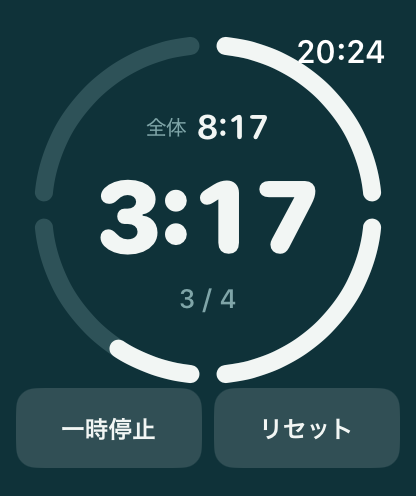
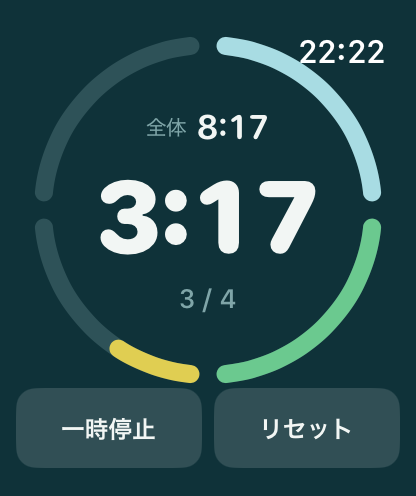
実行画面の円環にも色を入れる
コンプリケーションと同じ色の言語をアプリへ持ち込んだ。
冷たい色から暖かい色へ、時計回りに進む（淡い水 → 若緑 → 金 → 琥珀）。
位置そのものが進み具合を表すので、暖色まで来ていれば終わりが近いと分かる。
最後の区切りは警告と同じ琥珀。

12色を Core に置き、分割数に応じて等間隔に選ぶ。1分割でも12分割でも端から端まで使う。
どの色も地の色に対して 3:1 以上あることをテストで固定した。設定画面の
「1区切り◯分」の数字に添えた暖色は、小さい文字なので 4.5:1 で見ている。

一度「まだ来ていないぶんは、その区切りの色を薄める」形で作ったが、
薄めた暖色が濁って見え、「まだ来ていない」ではなく「汚れている」ように読めた。
実際に描いて見比べて、下敷きは無彩色に戻した。
進むにつれて色が入っていく様子のほうがはっきり出る。

警告と終了のときは色を使わない。地の色そのものが合図なので、
そこへ12色を重ねると何が起きたのか分からなくなる。

ストア用のスクリーンショットも撮り直した。

Changed region(s): [[0.25, 0.0605, 0.9375, 0.7863], [0.8438, 0.0605, 0.9375, 0.1512]]

diff --git a/IntervalTimer/IntervalTimer/Views/Components/SegmentRing.swift b/IntervalTimer/IntervalTimer/Views/Components/SegmentRing.swift
@@ -16,6 +16,8 @@ struct SegmentRing: View {
     let progressInSplit: Double
     let skin: Skin
     let diameter: CGFloat
+    /// 区切りごとの色。`nil` なら単色（警告・終了のとき）。
+    var colors: [Color]? = nil
     var lineWidth: CGFloat = 9
     /// 終了後は全部を塗る。
     var allDone: Bool = false
@@ -23,14 +25,16 @@ struct SegmentRing: View {
     var body: some View {
         ZStack {
             ForEach(0..<max(1, parts), id: \.self) { i in
-                // 下敷き。まだ来ていない区切りも、ここで形が見える
+                // 下敷き。まだ来ていない区切りも、ここで形が見える。
+                // 色を使うときは、その区切り自身の色を薄くする。灰色に落とすと、
+                // 隣が何色だったか分からなくなって、位置で読めなくなる
                 ArcShape(startDegrees: start(i), spanDegrees: span, lineWidth: lineWidth)
-                    .stroke(skin.faint, style: stroke)
+                    .stroke(track(i), style: stroke)
 
                 let filled = amount(for: i)
                 if filled > 0 {
                     ArcShape(startDegrees: start(i), spanDegrees: span * filled, lineWidth: lineWidth)
-                        .stroke(skin.ink, style: stroke)
+                        .stroke(fill(i), style: stroke)
                 }
             }
         }
@@ -61,6 +65,19 @@ struct SegmentRing: View {
 
     private var stroke: StrokeStyle {
         StrokeStyle(lineWidth: lineWidth, lineCap: .round)
+    }
+
+    /// まだ来ていない側。
+    ///
+    /// **その区切りの色を薄くするのではなく、無彩色にする。**
+    /// 薄めた暖色は濁って見えて、「まだ来ていない」ではなく「汚れている」ように読める。
+    /// 無彩色にしておくと、進むにつれて色が入っていく様子がはっきり出る。
+    private func track(_ i: Int) -> Color { skin.faint }
+
+    /// 済んだ側・進行中の塗り。
+    private func fill(_ i: Int) -> Color {
+        guard let colors, i < colors.count else { return skin.ink }
+        return colors[i]
     }
 
     private func amount(for i: Int) -> Double {

diff --git a/IntervalTimerCore/Tests/IntervalTimerCoreTests/PaletteTests.swift b/IntervalTimerCore/Tests/IntervalTimerCoreTests/PaletteTests.swift
@@ -34,6 +34,35 @@ struct PaletteTests {
         #expect(Contrast.ratio(PaletteHex.warnBackground, PaletteHex.doneBackground) >= 2.5)
     }
 
+    @Test func 区切りの色はどれも地の色の上で読める() {
+        // 円環は太い線なので「大きな文字」の基準（3:1）で見る。
+        for hex in PaletteHex.segmentRamp {
+            let r = Contrast.ratio(hex, PaletteHex.background)
+            #expect(r >= 3.0, "\(String(hex, radix: 16)) が地の色に埋もれる（\(r)）")
+        }
+        // 設定画面の数字は小さいので本文の基準（4.5:1）。
+        #expect(Contrast.ratio(PaletteHex.accent, PaletteHex.background) >= 4.5)
+    }
+
+    @Test func 分割数ぶんの色を端から端まで使う() {
+        #expect(PaletteHex.segments(parts: 1) == [PaletteHex.segmentRamp.last!])
+        for n in 2...12 {
+            let c = PaletteHex.segments(parts: n)
+            #expect(c.count == n)
+            #expect(c.first == PaletteHex.segmentRamp.first)   // 冷たい色から
+            #expect(c.last == PaletteHex.segmentRamp.last)     // 暖かい色まで
+            #expect(Set(c).count == n, "\(n)分割で色が重複した")
+        }
+    }
+
+    @Test func 隣り合う区切りの色は見分けられる() {
+        // 12分割でも、隣どうしが同じに見えないこと。
+        let c = PaletteHex.segments(parts: 12)
+        for i in 0..<(c.count - 1) {
+            #expect(Contrast.ratio(c[i], c[i+1]) >= 1.05 || c[i] != c[i+1])
+        }
+    }
+
     @Test func 相対輝度の計算があっている() {
         #expect(Contrast.luminance(0xFFFFFF) == 1.0)
         #expect(Contrast.luminance(0x000000) == 0.0)

diff --git a/IntervalTimerCore/Sources/IntervalTimerCore/Palette.swift b/IntervalTimerCore/Sources/IntervalTimerCore/Palette.swift
@@ -17,6 +17,32 @@ public enum PaletteHex {
     public static let warnInk: UInt32        = 0x1A1207
     public static let warnInkDim: UInt32     = 0x2B1D0A
 
+    /// 設定画面で「1区切り◯分」の数字に使う暖色。地の色の上で 7:1 出る。
+    public static let accent: UInt32 = 0xE8C04A
+
+    /// 区切りごとの色。**冷たい色から暖かい色へ、時計回りに進む。**
+    ///
+    /// 位置そのものが「どこまで来たか」を表す。数字を読まなくても、
+    /// 暖色まで来ていれば終わりが近いと分かる。最後は警告と同じ琥珀にしてある。
+    ///
+    /// 12色あるのは、分割の最大が12だから。分割が少ないときは
+    /// ``segments(parts:)`` が等間隔に選ぶので、いつでも端から端まで使う。
+    public static let segmentRamp: [UInt32] = [
+        0xA8DCE3, 0x7FD2D3, 0x56C7BE, 0x4EC3AE,
+        0x6BC98F, 0x93CF72, 0xBBD45C, 0xE0CE52,
+        0xE8C04A, 0xE9A63A, 0xE28A22, 0xD96A0B,
+    ]
+
+    /// 分割数ぶんの色を、``segmentRamp`` から等間隔に取る。
+    public static func segments(parts: Int) -> [UInt32] {
+        let n = max(1, parts)
+        guard n > 1 else { return [segmentRamp.last!] }
+        return (0..<n).map { i in
+            let t = Double(i) / Double(n - 1)
+            return segmentRamp[Int((t * Double(segmentRamp.count - 1)).rounded())]
+        }
+    }
+
     /// 終了。いちばん明るい。
     public static let doneBackground: UInt32 = 0xE8E2D4
     public static let doneInk: UInt32        = 0x17282C

diff --git a/IntervalTimer/IntervalTimer/Views/Palette.swift b/IntervalTimer/IntervalTimer/Views/Palette.swift
@@ -32,8 +32,20 @@ enum Skin {
         }
     }
 
-    /// セグメントバーの「まだ来ていない」ぶん。
+    /// 円環の「まだ来ていない」ぶん。
     var faint: Color { inkDim.opacity(0.28) }
+
+    /// 区切りごとの色。冷たい色から暖かい色へ、時計回りに進む。
+    ///
+    /// **通常のときだけ色を使う。** 警告と終了は地の色そのものが合図なので、
+    /// そこへ12色を重ねると何が起きたのか分からなくなる。単色に戻して地を主役にする。
+    func segmentColors(parts: Int) -> [Color]? {
+        guard self == .normal else { return nil }
+        return PaletteHex.segments(parts: parts).map { Color(hex: $0) }
+    }
+
+    /// 設定画面で数字に添える暖色。
+    var accent: Color { self == .normal ? Color(hex: PaletteHex.accent) : ink }
 }
 
 extension Color {

diff --git a/IntervalTimer/IntervalTimer/Views/RunView.swift b/IntervalTimer/IntervalTimer/Views/RunView.swift
@@ -57,7 +57,8 @@ struct RunView: View {
                                 index: d.index,
                                 progressInSplit: progressInSplit(d, at: timeline.date),
                                 skin: skin,
-                                diameter: ringSide)
+                                diameter: ringSide,
+                                colors: skin.segmentColors(parts: d.config.parts))
                 }
                 numbers(d, skin: skin, width: ringSide)
             }

diff --git a/IntervalTimer/IntervalTimer/Views/SetupView.swift b/IntervalTimer/IntervalTimer/Views/SetupView.swift
@@ -172,7 +172,7 @@ struct SetupView: View {
                 .foregroundStyle(Skin.normal.inkDim)
             Text(TimeText.japanese(config.splitSeconds))
                 .fontWeight(.semibold)
-                .foregroundStyle(Skin.normal.ink)
+                .foregroundStyle(Skin.normal.accent)
         }
         .font(.system(size: 14))
         .frame(minHeight: 20)

diff --git a/README.md b/README.md
@@ -62,6 +62,18 @@ SPEC.md                     実装仕様
 消化済みは塗り、進行中は途中まで塗る。数字を読まなくても、
 「いま何区切り目か」と「その中でどこまで来たか」が掴める。
 
+**色は冷たい色から暖かい色へ、時計回りに進む。**（淡い水 → 若緑 → 金 → 琥珀）
+位置そのものが進み具合を表すので、暖色まで来ていれば終わりが近いと分かる。
+最後の区切りは警告と同じ琥珀にしてある。12色を用意して、分割数に応じて等間隔に選ぶので、
+1分割でも12分割でも端から端まで使う。
+
+**まだ来ていないぶんは無彩色にする。** その区切りの色を薄めると濁って見えて、
+「まだ来ていない」ではなく「汚れている」ように読める。無彩色にしておくと、
+進むにつれて色が入っていく様子がはっきり出る。
+
+**警告と終了のときは色を使わない。** 地の色そのものが合図なので、
+そこへ12色を重ねると何が起きたのか分からなくなる。
+
 円環だけは `TimelineView(.periodic(by: 1))` で1秒ごとに描き直す。
 秒の数字はシステムが描いているので、そちらを巻き込まない。
 0.1秒ごとにすれば滑らかになるが、1区切り5分なら1秒で弧の1/300しか進まず段は見えない。
